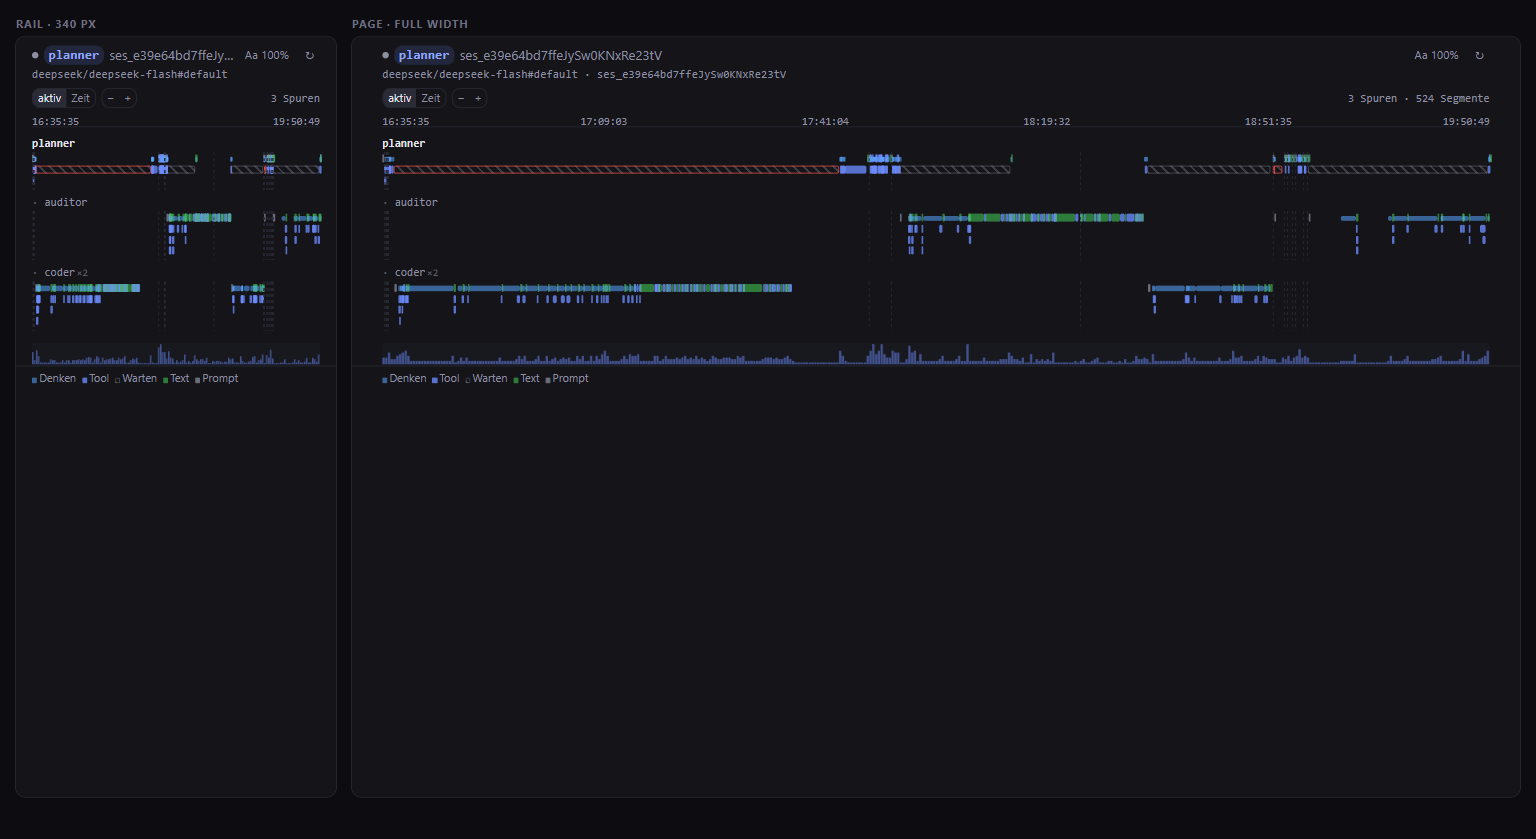
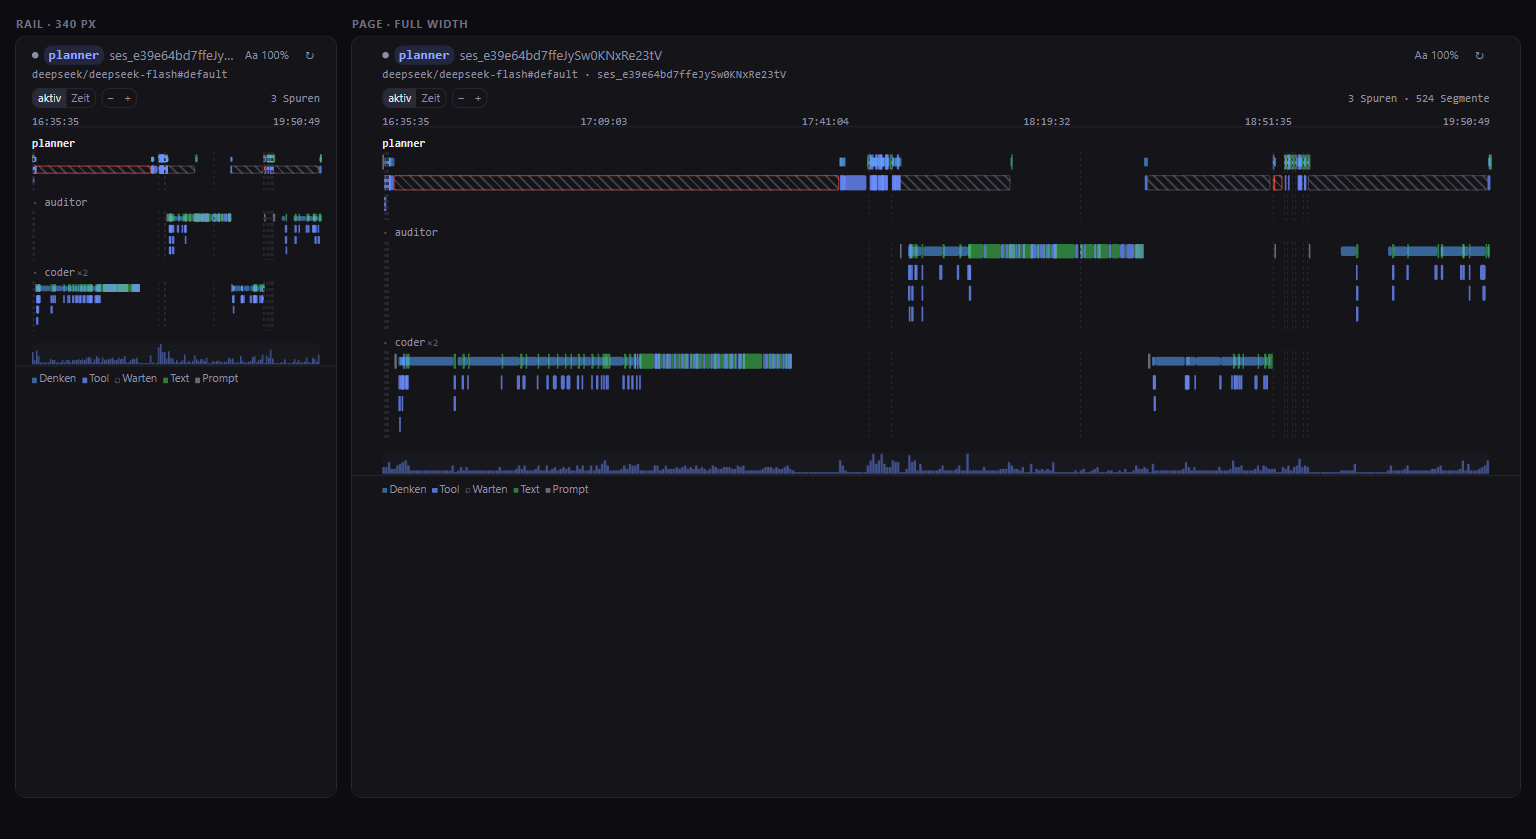
Bars and rows scale with zoom and panel width
Fixed 8px bars read as hairlines in a wide page and stayed tiny when zooming into minutes. barMetrics() derives both from the panel width (up to 1.9x) and the zoom factor (up to 1.8x) on top of the text scale, capped at 2.6x, and the preview was regenerated.

diff --git a/src/panel/main.js b/src/panel/main.js
@@ -98,6 +98,21 @@ const STRINGS = {
 
 const ROW_H = 11;
 const BAR_H = 8;
+
+/**
+ * Row and bar height follow the panel width and the zoom.
+ *
+ * Fixed 8px bars read as hairlines in a wide page and stay tiny when zooming
+ * into a few minutes, so both the available width and the zoom factor thicken
+ * them, up to a cap.
+ */
+function barMetrics() {
+  const width = dom.lanes.clientWidth || 340;
+  const widthScale = 1 + clamp01((width - 300) / 700) * 0.9;
+  const zoomScale = 1 + Math.min(1.1, Math.log2(Math.max(1, viewZoom())) * 0.38);
+  const scale = Math.min(2.6, state.fontScale * widthScale * zoomScale);
+  return { row: Math.round(ROW_H * scale), bar: Math.max(6, Math.round(BAR_H * scale)) };
+}
 const GAP_MS = 15000;
 const POLL_MS = 1500;
 
@@ -655,8 +670,7 @@ function render() {
   }
   if (dom.zoom) dom.zoom.title = strings.zoomHint;
 
-  const rowHeight = Math.round(ROW_H * state.fontScale);
-  const barHeight = Math.max(6, Math.round(BAR_H * state.fontScale));
+  const { row: rowHeight, bar: barHeight } = barMetrics();
 
   syncChildren(
     dom.lanes,

diff --git a/panel/main.js b/panel/main.js
@@ -1911,6 +1911,13 @@ ${GUEST_UI_LOOK_CSS}`;
   };
   var ROW_H = 11;
   var BAR_H = 8;
+  function barMetrics() {
+    const width = dom.lanes.clientWidth || 340;
+    const widthScale = 1 + clamp01((width - 300) / 700) * 0.9;
+    const zoomScale = 1 + Math.min(1.1, Math.log2(Math.max(1, viewZoom())) * 0.38);
+    const scale = Math.min(2.6, state.fontScale * widthScale * zoomScale);
+    return { row: Math.round(ROW_H * scale), bar: Math.max(6, Math.round(BAR_H * scale)) };
+  }
   var GAP_MS = 15e3;
   var POLL_MS = 1500;
   var host = connectHost();
@@ -2349,8 +2356,7 @@ ${GUEST_UI_LOOK_CSS}`;
       dom.zoomFit.textContent = `fit ${zoom.toFixed(1)}\xD7`;
     }
     if (dom.zoom) dom.zoom.title = strings.zoomHint;
-    const rowHeight = Math.round(ROW_H * state.fontScale);
-    const barHeight = Math.max(6, Math.round(BAR_H * state.fontScale));
+    const { row: rowHeight, bar: barHeight } = barMetrics();
     syncChildren(
       dom.lanes,
       visible.map((group) => group.key),

diff --git a/README.md b/README.md
@@ -16,7 +16,7 @@ Subagents get their own lane under the root, so a run that fans out to `coder`, 
 | **Overlap** | segments that collide get a sub-row inside their lane instead of covering each other. |
 | **active** | idle stretches longer than 15 s are compressed, so the work fills the width. |
 | **clock** | linear time axis. |
-| **Zoom** | `+` / `−`, Ctrl+wheel zooms under the pointer, drag pans, double-click a bar zooms onto it, `fit` (or `0`) shows everything again. |
+| **Zoom** | `+` / `−`, Ctrl+wheel zooms under the pointer, drag pans, double-click a bar zooms onto it, `fit` (or `0`) shows everything again. Bars and rows grow with the zoom factor and with the panel width, so a wide page and a deep zoom do not end up as hairlines. |
 | **Overview strip** | the whole session as a density map; the framed window is the visible slice. Drag it, or click beside it to jump. |
 | **Aa** | text size in five steps (85–150 %), remembered per extension. |
 | **Click** | opens the details: agent, session, model, tokens, duration, input/output. `Esc` closes. |
